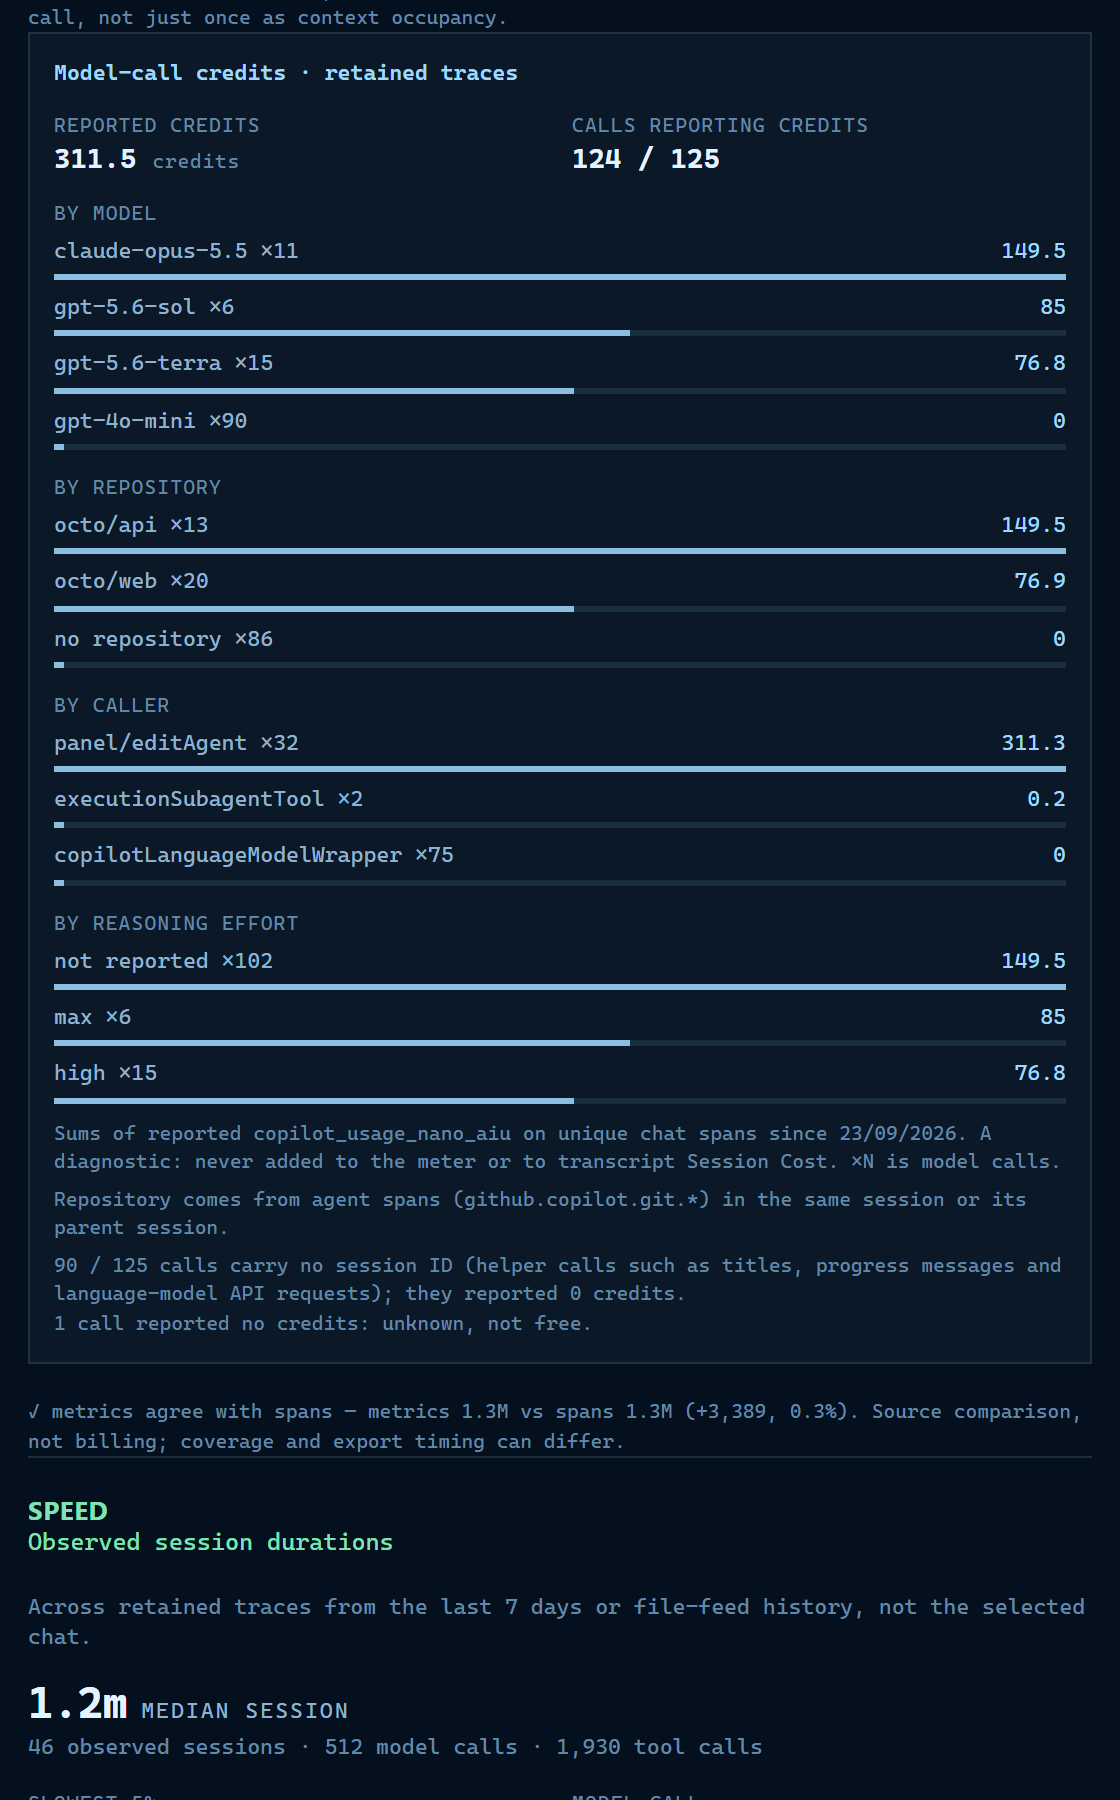
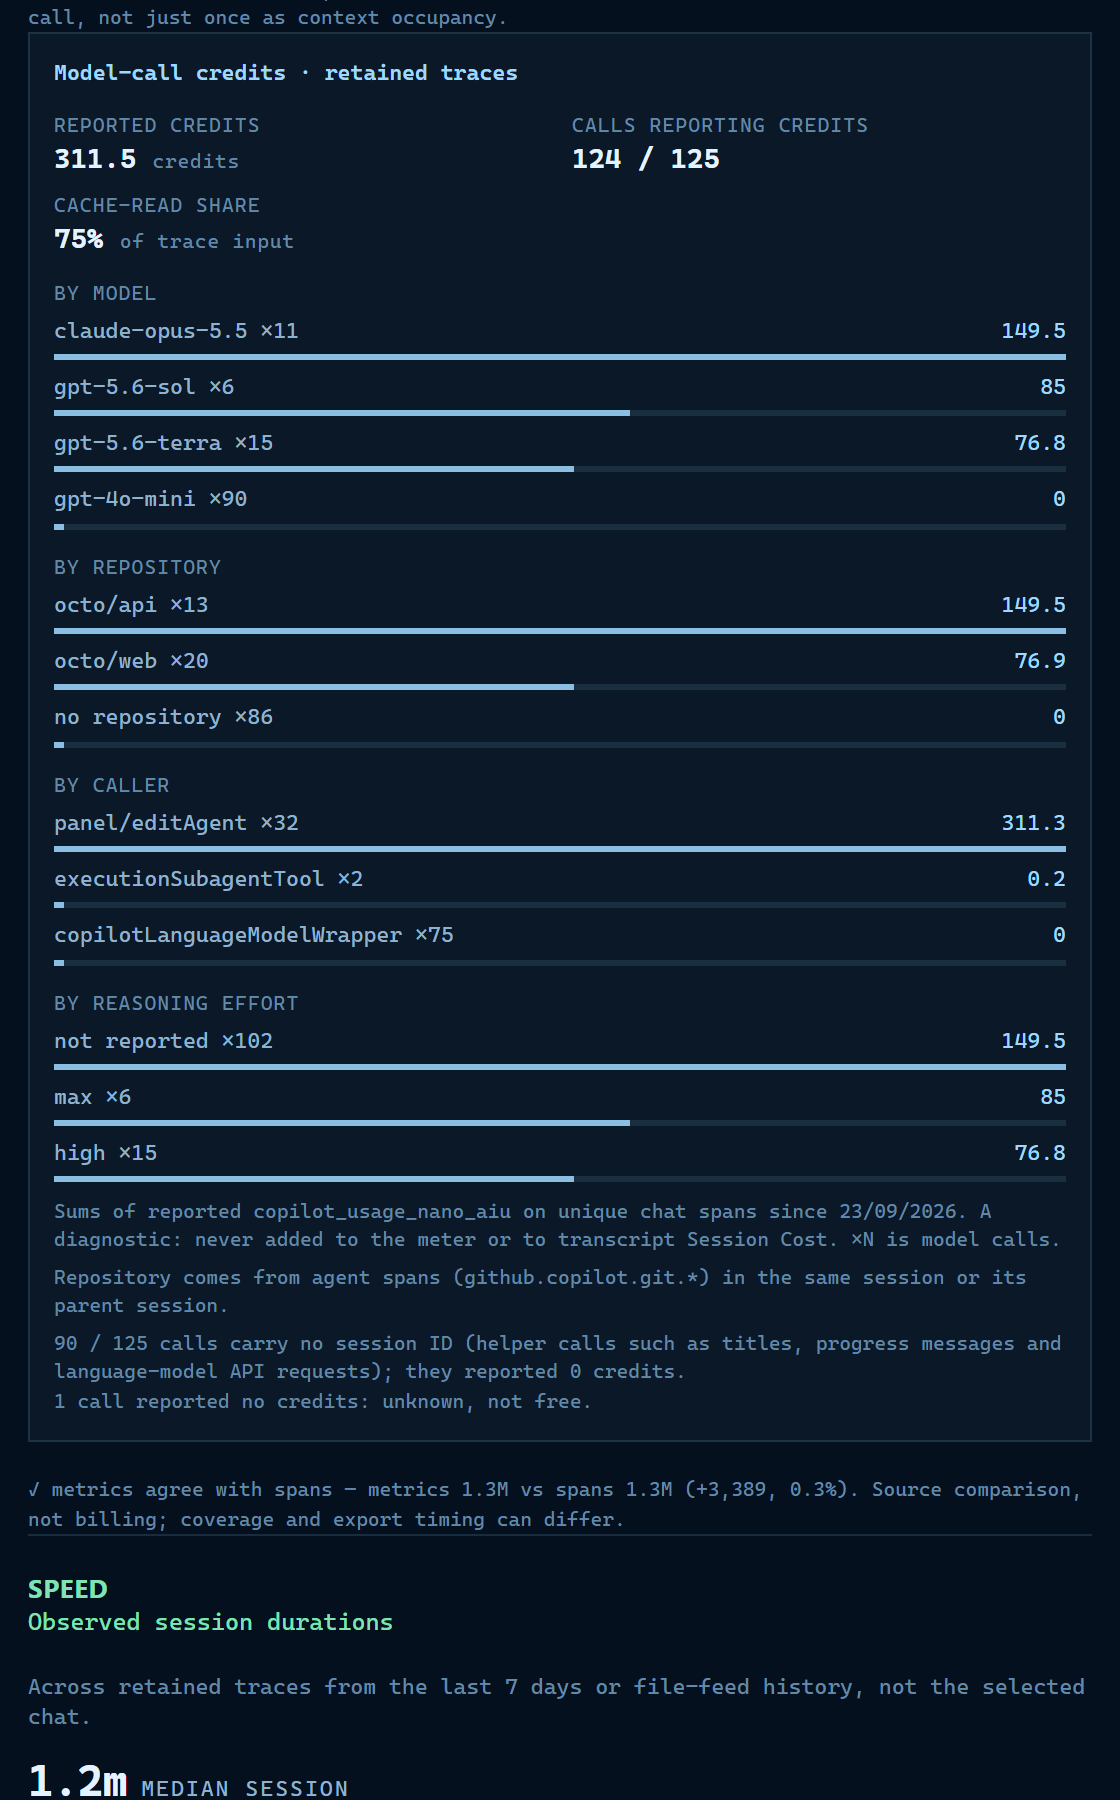
Address Copilot review: credential-safe repos, unknown tool status, focus, trace-only credits
- Canvas: reject unparsed repository values containing '@' and parse
  every URI scheme, so credential-shaped values are never shown.
- Canvas: select NULL for a missing status_code and count failures only
  for tool spans with a reported status.
- Canvas: keep tab buttons across renders with a roving tabindex and
  arrow/Home/End keys; restore focus to rebuilt panel controls.
- Dashboard: render retained-trace credits (and cache-read share) even
  before the local meter has charged usage.
- Dashboard: compute one session work label (repository, branch or both)
  in the summary and use it in the picker, comparison view and diagnostics.

diff --git a/.github/extensions/ai-attribution/ui/app.js b/.github/extensions/ai-attribution/ui/app.js
@@ -195,6 +195,7 @@ function renderSurfaces() {
           'button',
           {
             'aria-pressed': String(state.group === g.id),
+            'data-focus-key': `group-${g.id}`,
             onclick: () => {
               state.group = g.id;
               render();
@@ -502,7 +503,11 @@ function sourceCard(s) {
                     {},
                     h('td', {}, x.key),
                     h('td', { class: 'num' }, fmtInt.format(x.calls)),
-                    h('td', { class: 'num' }, fmtInt.format(x.failed)),
+                    h(
+                      'td',
+                      { class: 'num', title: x.statusCalls ? '' : 'Status not reported' },
+                      x.statusCalls ? fmtInt.format(x.failed) : '—',
+                    ),
                   ),
                 ),
               ),
@@ -526,6 +531,7 @@ function renderCoverage() {
     'select',
     {
       'aria-label': 'Window',
+      'data-focus-key': 'window',
       onchange: (e) => refresh(Number(e.target.value)),
     },
     WINDOWS.map((w) => h('option', { value: w.days, selected: c?.window.days === w.days }, w.label)),
@@ -540,7 +546,11 @@ function renderCoverage() {
       'div',
       { class: 'toolbar' },
       select,
-      h('button', { onclick: () => refresh(), disabled: state.busy }, state.busy ? 'Refreshing…' : 'Refresh'),
+      h(
+        'button',
+        { 'data-focus-key': 'refresh', onclick: () => refresh(), 'aria-disabled': state.busy ? 'true' : undefined },
+        state.busy ? 'Refreshing…' : 'Refresh',
+      ),
       c ? h('span', { class: 'muted small' }, `Generated ${new Date(c.generatedAt).toLocaleString()}`) : null,
     ),
     c
@@ -590,29 +600,54 @@ const RENDERERS = {
 
 function renderTabs() {
   const tabs = document.getElementById('tabs');
-  tabs.replaceChildren(
-    ...VIEWS.map((v) =>
-      h(
-        'button',
-        {
-          role: 'tab',
-          'aria-selected': String(state.view === v.id),
-          onclick: () => selectView(v.id, true),
-        },
-        v.label,
+  // Built once and updated in place, so the focused tab survives a re-render.
+  if (!tabs.childElementCount) {
+    tabs.append(
+      ...VIEWS.map((v) =>
+        h(
+          'button',
+          {
+            role: 'tab',
+            id: `tab-${v.id}`,
+            'aria-controls': 'view',
+            'data-view': v.id,
+            onclick: () => selectView(v.id, true),
+            onkeydown: onTabKey,
+          },
+          v.label,
+        ),
       ),
-    ),
-  );
+    );
+  }
+  for (const button of tabs.children) {
+    const selected = button.dataset.view === state.view;
+    button.setAttribute('aria-selected', String(selected));
+    button.tabIndex = selected ? 0 : -1;
+  }
+}
+
+function onTabKey(event) {
+  const index = VIEWS.findIndex((v) => v.id === state.view);
+  const next = { ArrowRight: index + 1, ArrowLeft: index - 1, Home: 0, End: VIEWS.length - 1 }[event.key];
+  if (next === undefined) return;
+  event.preventDefault();
+  const view = VIEWS[(next + VIEWS.length) % VIEWS.length].id;
+  selectView(view, true);
+  document.getElementById(`tab-${view}`).focus();
 }
 
 function render() {
   renderTabs();
   if (!state.model) return;
+  // Controls inside the panel are rebuilt; restore focus to the equivalent one.
+  const focusKey = main.contains(document.activeElement) ? document.activeElement.dataset.focusKey : undefined;
   try {
     main.replaceChildren(...[RENDERERS[state.view]()].flat().filter(Boolean));
   } catch (err) {
     main.replaceChildren(h('p', {}, `Could not render: ${err.message}`));
   }
+  main.setAttribute('aria-labelledby', `tab-${state.view}`);
+  if (focusKey) main.querySelector(`[data-focus-key="${CSS.escape(focusKey)}"]`)?.focus();
 }
 
 async function selectView(view, fromUser) {
@@ -638,6 +673,7 @@ async function loadCoverage() {
 }
 
 async function refresh(windowDays) {
+  if (state.busy) return;
   state.busy = true;
   render();
   try {

diff --git a/media/dashboard.js b/media/dashboard.js
@@ -304,6 +304,10 @@
         ])
       );
       node.append(renderGauge(cost));
+      // Retained traces are adopted without charging the meter, so they can
+      // exist before any new usage does.
+      const retained = renderTraceCredits(cost);
+      if (retained) node.append(retained);
       return node;
     }
 
@@ -336,9 +340,6 @@
 
     const telemetryRows = [];
     if (cost.cachedTokens > 0) telemetryRows.push({ label: 'Trace cache read', value: tokens(cost.cachedTokens) });
-    if (cost.cacheReadRatio !== undefined && cost.cacheReadRatio !== null) {
-      telemetryRows.push({ label: 'Cache-read share', value: percent(cost.cacheReadRatio), qualifier: 'of trace input' });
-    }
     if (cost.reasoningTokens > 0) telemetryRows.push({ label: 'Trace reasoning', value: tokens(cost.reasoningTokens) });
     if (cost.burnPerHour > 0) telemetryRows.push({ label: 'Feed burn rate', value: tokens(cost.burnPerHour), qualifier: '/hr' });
     if (telemetryRows.length) {
@@ -379,7 +380,7 @@
       );
     }
 
-    const traceCredits = renderTraceCredits(cost.traceCredits);
+    const traceCredits = renderTraceCredits(cost);
     if (traceCredits) node.append(traceCredits);
 
     node.append(driftNote(cost.drift, cost.source));
@@ -390,14 +391,19 @@
    * Where reported model-call credits went in retained traces. Token share is
    * not credit share, so this is grouped by credits rather than tokens.
    */
-  function renderTraceCredits(trace) {
+  function renderTraceCredits(cost) {
+    const trace = cost.traceCredits;
     if (!trace || !trace.available) return null;
     const block = el('div', 'gauge');
     block.append(el('h3', null, 'Model-call credits · retained traces'));
-    block.append(stats([
+    const rows = [
       { label: 'Reported credits', value: trace.creditCalls > 0 ? credits(trace.credits) : '—', qualifier: 'credits' },
       { label: 'Calls reporting credits', value: count(trace.creditCalls) + ' / ' + count(trace.calls) }
-    ]));
+    ];
+    if (cost.cacheReadRatio !== undefined && cost.cacheReadRatio !== null) {
+      rows.push({ label: 'Cache-read share', value: percent(cost.cacheReadRatio), qualifier: 'of trace input' });
+    }
+    block.append(stats(rows));
     const groups = [
       ['By model', trace.byModel],
       ['By repository', trace.byRepository],
@@ -501,7 +507,7 @@
     block.append(el('p', 'headline-note',
       (session.pinned ? 'Pinned: ' : 'Latest observed: ') + sessionLabel(session) +
       (session.name ? ' (' + shortSessionId(session.sessionId) + ')' : '') +
-      (trace && trace.repository ? ' · ' + trace.repository + (trace.branch ? '@' + trace.branch : '') : '') +
+      (session.work ? ' · ' + session.work : '') +
       '. Not automatically the active VS Code chat.'));
     block.append(stats([
       { label: 'Session Cost · transcript', value: transcript && transcript.credits !== undefined ? credits(transcript.credits) : '—', qualifier: 'credits' },

diff --git a/test/attributionCanvas.test.js b/test/attributionCanvas.test.js
@@ -76,6 +76,9 @@ it('normalises repository identifiers and drops credentials', async () => {
   assert.equal(normalizeRepository('https://dev.azure.com/org/proj/_git/repo'), 'dev.azure.com/org/proj/_git/repo');
   assert.equal(normalizeRepository('  '), null);
   assert.equal(normalizeRepository(null), null);
+  assert.equal(normalizeRepository('user:secret@host/o/r'), null, 'unparsed credentials are rejected, not shown');
+  assert.equal(normalizeRepository('ftp://user:pw@host.example/o/r'), 'host.example/o/r');
+  assert.equal(normalizeRepository('https://user:pw@[bad/o/r'), null);
 });
 
 it('session store: credit-weighted funnel stops where references stop', async (t) => {
@@ -281,7 +284,7 @@ it('VS Code traces: chat spans inherit repository from invoke_agent; PR stages a
   });
   assert.equal(traces.breakdowns.repository[0].key, 'o/r');
   assert.equal(traces.breakdowns.reasoningEffort.find((r) => r.key === 'high').credits, 3);
-  assert.deepEqual(traces.tools, [{ key: 'read_file', calls: 2, failed: 1 }]);
+  assert.deepEqual(traces.tools, [{ key: 'read_file', calls: 2, statusCalls: 2, failed: 1 }]);
   assert.equal(coverage.sources.find((s) => s.id === 'sessionStore').status, 'missing');
 
   assert.equal(reasoningEffortFromOptions('{"reasoning_effort":"max"}'), 'max');
@@ -379,4 +382,27 @@ it('canvas server: serves UI and API on loopback, rejects foreign hosts and orig
     403,
   );
   assert.equal(view, 'gaps');
+});
+
+it('VS Code traces: an older store without status_code leaves tool failures unknown', async (t) => {
+  const { DatabaseSync } = require('node:sqlite');
+  const { computeCoverage } = await load('coverage.mjs');
+  const dir = tempDir(t);
+  const file = path.join(dir, 'agent-traces.db');
+  const now = Date.UTC(2026, 8, 30, 12);
+  const db = new DatabaseSync(file);
+  db.exec(`
+    CREATE TABLE spans (span_id TEXT PRIMARY KEY, start_time_ms INTEGER, operation_name TEXT, tool_name TEXT);
+    INSERT INTO spans VALUES ('a', ${now - 1000}, 'execute_tool', 'read_file'), ('b', ${now - 900}, 'execute_tool', 'read_file');
+  `);
+  db.close();
+  const coverage = await computeCoverage({
+    windowDays: 7,
+    now,
+    sessionStorePath: path.join(dir, 'none.db'),
+    tracesDbPath: file,
+  });
+  const traces = coverage.sources.find((s) => s.id === 'traces');
+  assert.equal(traces.status, 'ok');
+  assert.deepEqual(traces.tools, [{ key: 'read_file', calls: 2, statusCalls: 0, failed: 0 }]);
 });

diff --git a/src/extension.ts b/src/extension.ts
@@ -7,7 +7,7 @@ import { ChatUsageWatcher } from './chatWatcher';
 import { DashboardViewProvider, openDashboardPanel } from './dashboardView';
 import { IcebergViewProvider, openHabitatPanel } from './habitatView';
 import { OtelWatcher } from './otelWatcher';
-import { buildSnapshot, redactUrl, selectedSession, sessionComparisons, sessionLabel, sessionWorkLabel, type DashboardSnapshot, type SessionComparison } from './otelSummary';
+import { buildSnapshot, redactUrl, selectedSession, sessionComparisons, sessionLabel, type DashboardSnapshot, type SessionComparison } from './otelSummary';
 import { TokenMeter, type UsageSnapshot } from './tokenMeter';
 
 export type { IcebergApi, UsageReport, UsageSnapshot } from './api';
@@ -180,7 +180,7 @@ export function activate(context: vscode.ExtensionContext): IcebergApi {
           label: sessionLabel(session),
           description: [
             session.trace?.model ?? session.transcript?.model ?? 'unknown model',
-            sessionWorkLabel(session),
+            session.work,
             new Date(session.updatedAt).toLocaleString()
           ].filter(Boolean).join(' · '),
           detail: session.sessionId,
@@ -418,7 +418,7 @@ function showDiagnostics(otel: OtelWatcher, meter: TokenMeter, output: vscode.Ou
     output.appendLine(`  session cost        ${session.transcript?.credits ?? 'not reported'} transcript credits`);
     output.appendLine(`  trace call credits  ${session.trace?.credits ?? 'not reported'} across ${session.trace?.creditCalls ?? 0}/${session.trace?.llmCalls ?? 0} calls`);
     output.appendLine(`  trace session tokens ${session.trace?.inputTokens ?? 'unknown'} input / ${session.trace?.outputTokens ?? 'unknown'} output`);
-    output.appendLine(`  session work        ${sessionWorkLabel(session) ?? 'not reported'} (agent span git attributes)`);
+    output.appendLine(`  session work        ${session.work ?? 'not reported'} (agent span git attributes)`);
   }
   const spans = otel.spanDigest;
   output.appendLine(

diff --git a/test/dashboard.test.js b/test/dashboard.test.js
@@ -493,3 +493,26 @@ it('omits the trace credit breakdown without retained model calls', () => {
   d.render({}, new OtelRollup(), undefined, {});
   assert.doesNotMatch(d.nodes.sections.textContent, /Model-call credits · retained traces|Cache-read share/);
 });
+
+it('shows retained trace credits before the local meter has charged any usage', () => {
+  const d = dashboard();
+  d.render({ sqliteActive: true }, new OtelRollup(), undefined, {
+    spans: tracedSpans(), totals: { input: 0, output: 0, credits: 0 }, countedTokens: 0
+  });
+  const cost = d.nodes.sections.children.find((section) => section.dataset.key === 'cost');
+  assert.match(cost.textContent, /No new token counts/);
+  assert.match(cost.textContent, /Model-call credits · retained traces/);
+  assert.match(cost.textContent, /Cache-read share 82%\s+of trace input/);
+});
+
+it('labels a session with a branch even when no repository is reported', () => {
+  const at = Date.UTC(2026, 8, 29, 12);
+  const spans = digestSpans([
+    usageSpan('agent', {
+      'gen_ai.operation.name': 'invoke_agent', 'copilot_chat.chat_session_id': 'solo', 'github.copilot.git.branch': 'topic'
+    }, at, at + 100)
+  ]);
+  const d = dashboard();
+  d.render({}, new OtelRollup(), undefined, { spans });
+  assert.match(d.nodes.sections.textContent, /Latest observed: solo · topic\./);
+});

diff --git a/src/otelSummary.ts b/src/otelSummary.ts
@@ -303,6 +303,8 @@ export interface SessionComparison {
   updatedAt: number;
   transcript?: ChatSessionUsage;
   trace?: SpanSession;
+  /** `owner/name@branch` (or either part) from the session's agent spans. */
+  work?: string;
 }
 
 /**
@@ -389,6 +391,7 @@ export function sessionComparisons(
       sessionId: trace.sessionId, pinned: false, updatedAt: trace.endedAt
     };
     session.trace = trace;
+    session.work = sessionWorkLabel(session);
     session.updatedAt = Math.max(session.updatedAt, trace.endedAt);
     sessions.set(trace.sessionId, session);
   }

diff --git a/tools/dashboard.html b/tools/dashboard.html
@@ -148,7 +148,7 @@
       tokensPerMinute: 24800
     },
     session: {
-      sessionId: 'example-session', pinned: true, updatedAt: Date.now(),
+      sessionId: 'example-session', pinned: true, updatedAt: Date.now(), work: 'octo/api@main',
       transcript: { credits: 293.2, latestPromptTokens: 136600 },
       trace: {
         credits: 293.2, creditCalls: 32, llmCalls: 32,

diff --git a/.github/extensions/ai-attribution/ui/index.html b/.github/extensions/ai-attribution/ui/index.html
@@ -15,7 +15,7 @@
       </div>
       <nav class="tabs" id="tabs" role="tablist" aria-label="Views"></nav>
     </header>
-    <main id="view" tabindex="-1" aria-live="polite">
+    <main id="view" role="tabpanel" tabindex="-1" aria-live="polite">
       <p class="muted">Loading…</p>
     </main>
     <script type="module" src="/app.js"></script>
